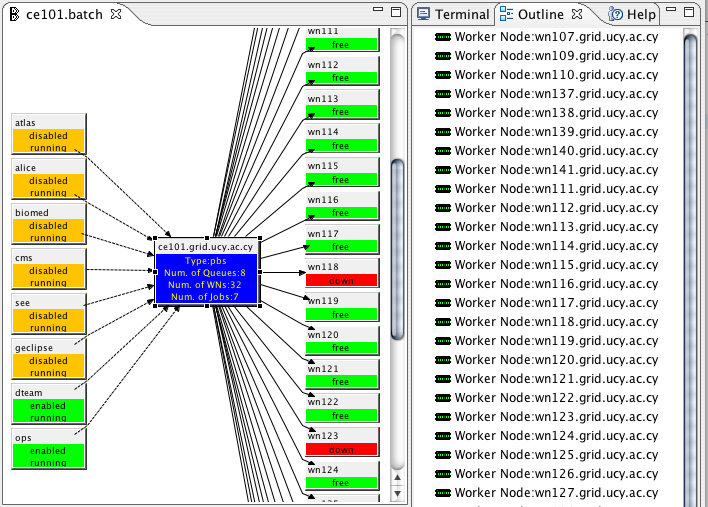
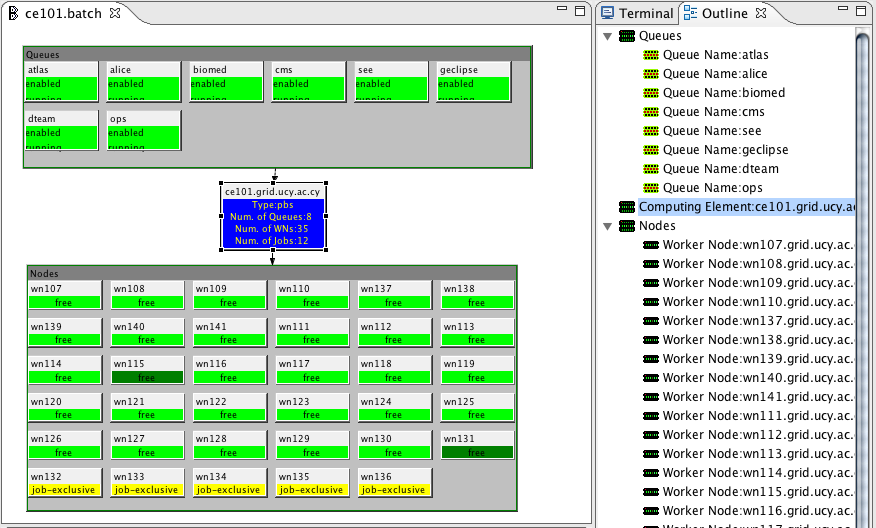
Updated the information about how to contribute to the batch service

diff --git a/doc/eu.geclipse.doc.isv/html/how_to_contribute/gridBatchSystems.html b/doc/eu.geclipse.doc.isv/html/how_to_contribute/gridBatchSystems.html
@@ -38,8 +38,8 @@
 
 <p>The Batch Editor displays the current state of a batch service and provides for interaction with the service</p>
 <img
-  width="708"
-  height="507"
+  width="876"
+  height="528"
   src="images/batchEditorView.png" />
 
 <p>The Batch Job View displays all the batch jobs residing in the selected resource in the Batch Editor</p>
@@ -54,13 +54,21 @@
   height="494"
   src="images/newQueueWizardPage.png" />
 
+
+<h3>Extension point</h3>
+<dl>
+  <dt><code>eu.geclipse.batch.batchService</code></dt>
+  <dd>Provides a scheme for defining new batch service 
+  by descriptor, id, name, and corresponding wizard</dd>
+</dl>
+
 <h2>Interfaces to implement</h2>
 <dl>
-  <dt><code>eu.geclipse.batch.IBatchWrapper</code></dt>
-  <dd>Implement this to represent a new batch service</dd>
-  <dt><code>eu.geclipse.batch.ui.editors.BatchEditor</code></dt>
-  <dd>In method setInput add the instantiation of your batch
-  service wrapper</dd>
+  <dt><code>eu.geclipse.batch.IBatchService</code></dt>
+  <dd>Implement this to represent your batch service </dd>
+  <dt><code>eu.geclipse.batch.IBatchServiceDescription</code></dt>
+  <dd>Implement this in order to hold all parameters that are
+  needed for a successful batch service creation</dd>
 </dl>
 
 </body>
